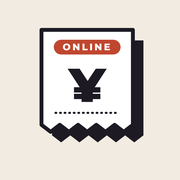
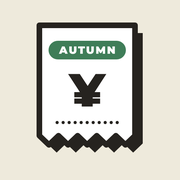
ホームアイコンをAUTUMN（グリーン）に変更
Claude-Session: https://claude.ai/code/session_01Tkh1uQotWd9NLb66AZz3UB

Changed region(s): [[0.1944, 0.1111, 0.8056, 0.8611], [0.3056, 0.3611, 0.6667, 0.6389]]

diff --git a/index.html b/index.html
@@ -3,7 +3,7 @@
 <head>
   <meta charset="UTF-8" />
   <meta name="viewport" content="width=device-width, initial-scale=1.0, viewport-fit=cover" />
-  <meta name="app-version" content="2026.10.28-1">
+  <meta name="app-version" content="2026.10.28-2">
   <title>MAZZEL AUTUMN2026 MERCH グッズ計算機</title>
   <meta name="description" content="MAZZEL AUTUMN2026 MERCH（Touch・Re-release・MAZZEL ROOM）の購入予定を入れると、合計金額・合計点数・内訳を自動で計算できます。" />
   <meta property="og:type" content="website">
@@ -11,13 +11,13 @@
   <meta property="og:title" content="MAZZEL AUTUMN2026 MERCH グッズ計算機｜MUZE TOOL BOX">
   <meta property="og:description" content="BMSG SHOPで買うMAZZEL AUTUMN2026 MERCH（Touch・Re-release・MAZZEL ROOM）の合計金額・点数・送料をその場で計算。購入上限と発送時期もひと目で。">
   <meta property="og:url" content="https://rikomuze.github.io/mazzel-autumn2026-goods-calculator/">
-  <meta property="og:image" content="https://rikomuze.github.io/mazzel-autumn2026-goods-calculator/og.jpg?v=2026.10.28-1">
+  <meta property="og:image" content="https://rikomuze.github.io/mazzel-autumn2026-goods-calculator/og.jpg?v=2026.10.28-2">
   <meta property="og:image:width" content="1200">
   <meta property="og:image:height" content="630">
   <meta property="og:image:alt" content="MAZZEL AUTUMN2026 MERCH グッズ計算機">
   <meta property="og:locale" content="ja_JP">
   <meta name="twitter:card" content="summary_large_image">
-  <meta name="twitter:image" content="https://rikomuze.github.io/mazzel-autumn2026-goods-calculator/og.jpg?v=2026.10.28-1">
+  <meta name="twitter:image" content="https://rikomuze.github.io/mazzel-autumn2026-goods-calculator/og.jpg?v=2026.10.28-2">
   <meta name="twitter:title" content="MAZZEL AUTUMN2026 MERCH グッズ計算機｜MUZE TOOL BOX">
   <link rel="preconnect" href="https://fonts.googleapis.com">
   <link rel="preconnect" href="https://fonts.gstatic.com" crossorigin>
@@ -527,8 +527,8 @@
   .shot-preview img{width:100%;box-shadow:var(--obj-shadow)}
   .shot-preview p{font-family:var(--hand);font-size:12px;font-weight:600;text-align:center;margin-top:6px;color:var(--faded)}
 </style>
-<link rel="apple-touch-icon" sizes="180x180" href="apple-touch-icon.png?v=2026.10.28-1"><link rel="manifest" href="manifest.json?v=2026.10.28-1"><meta name="apple-mobile-web-app-capable" content="yes"><meta name="mobile-web-app-capable" content="yes"><meta name="apple-mobile-web-app-status-bar-style" content="default"><meta name="apple-mobile-web-app-title" content="秋グッズ計算機">
-<script src="https://rikomuze.github.io/muze-tool-box/assets/app-back.js?v=2026.10.28-1" defer></script>
+<link rel="apple-touch-icon" sizes="180x180" href="apple-touch-icon.png?v=2026.10.28-2"><link rel="manifest" href="manifest.json?v=2026.10.28-2"><meta name="apple-mobile-web-app-capable" content="yes"><meta name="mobile-web-app-capable" content="yes"><meta name="apple-mobile-web-app-status-bar-style" content="default"><meta name="apple-mobile-web-app-title" content="秋グッズ計算機">
+<script src="https://rikomuze.github.io/muze-tool-box/assets/app-back.js?v=2026.10.28-2" defer></script>
 </head>
 <body>
 
